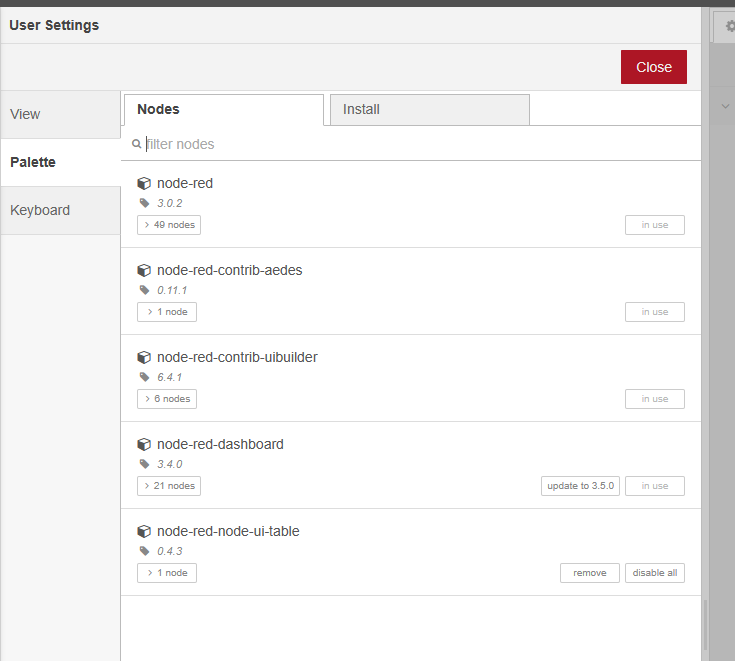
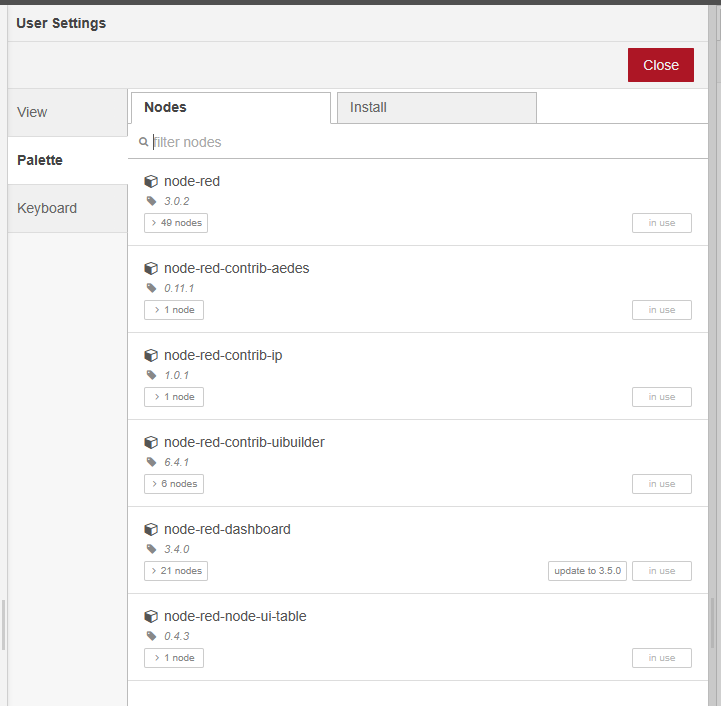
update docs with new plugins needed

diff --git a/Documentation/Installation/readme.md b/Documentation/Installation/readme.md
@@ -12,6 +12,8 @@ you add the nodes
 * node-red-contrib-uibuilder
 * node-red-dashboard
 * node-red-node-ui-table
+* node-red-contrib-ip
+* node-red-node-ui-table
 
 ### as shown below
 !["Add nodes "](https://github.com/gabrielcor/node-redescape-EscapeRoomSupplier/blob/main/Documentation/screenshots/ManagePallete02.png)
